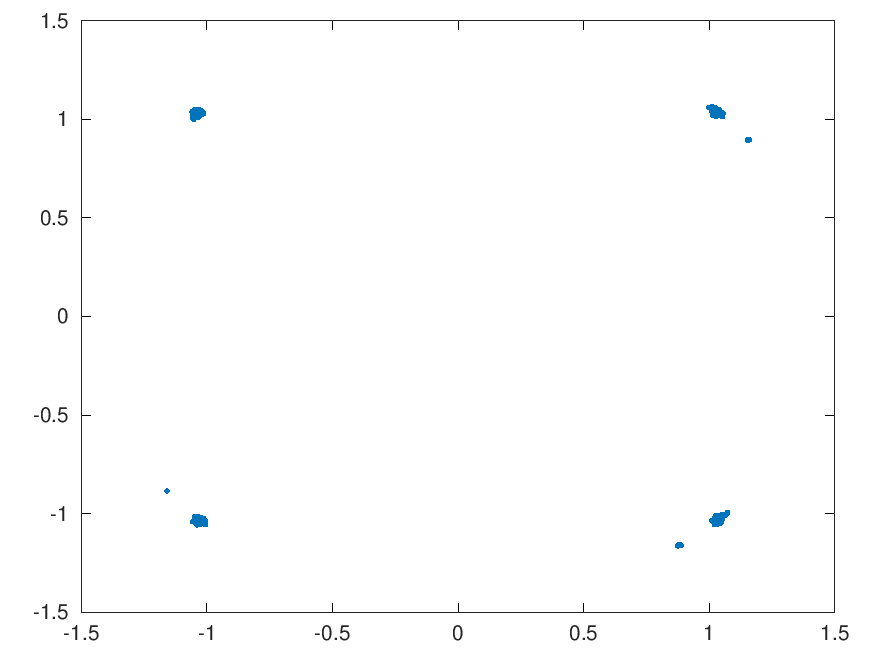
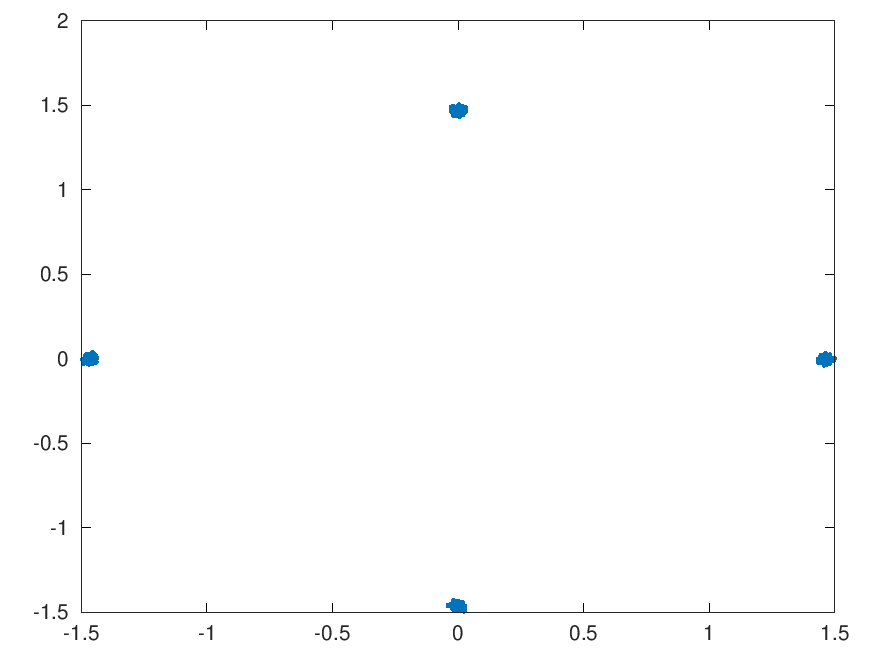
Prepare for new algorithms

diff --git a/qpsk.c b/qpsk.c
@@ -20,11 +20,11 @@
 
 // Prototypes
 
-static void qpsk_demod(complex float, int []);
+static void qpsk_demod(complex double, int []);
 static void rx_frame(int16_t [], int []);
-static complex float qpsk_mod(int []);
-static int tx_frame(int16_t [], complex float [], int);
-static complex float qpsk_mod(int []);
+static complex double qpsk_mod(int []);
+static int tx_frame(int16_t [], complex double [], int);
+static complex double qpsk_mod(int []);
 static int qpsk_packet_mod(int16_t [], int [], int);
 
 // Globals
@@ -32,32 +32,32 @@ static int qpsk_packet_mod(int16_t [], int [], int);
 FILE *fin;
 FILE *fout;
 
-complex float tx_filter[NTAPS];
-complex float rx_filter[NTAPS];
+complex double tx_filter[NTAPS];
+complex double rx_filter[NTAPS];
 
-complex float input_frame[FRAME_SIZE];
-complex float decimated_frame[FRAME_SIZE / 2];
+complex double input_frame[FRAME_SIZE];
+complex double decimated_frame[FRAME_SIZE / 2];
 
 // Two phase for full duplex
 
-complex float fbb_tx_phase;
-complex float fbb_tx_rect;
+complex double fbb_tx_phase;
+complex double fbb_tx_rect;
 
-complex float fbb_rx_phase;
-complex float fbb_rx_rect;
+complex double fbb_rx_phase;
+complex double fbb_rx_rect;
 
-float fbb_offset_freq;
+double fbb_offset_freq;
 
-float d_error;
+double d_error;
 
 /*
  * QPSK Quadrant bit-pair values - Gray Coded
  */
-const complex float constellation[] = {
-    1.0f + 0.0f * I, //  I
-    0.0f + 1.0f * I, //  Q
-    0.0f - 1.0f * I, // -Q
-    -1.0f + 0.0f * I // -I
+const complex double constellation[] = {
+    1.0 + 0.0 * I, //  I
+    0.0 + 1.0 * I, //  Q
+    0.0 - 1.0 * I, // -Q
+    -1.0 + 0.0 * I // -I
 };
 
 /*
@@ -69,16 +69,11 @@ const complex float constellation[] = {
  * 
  * Each bit pair differs from the next by only one bit.
  */
-static void qpsk_demod(complex float symbol, int bits[]) {
-    /*
-     * Don't rotate when costas loop enabled
-     */
-    if (get_costas_enable() == false) {
-        symbol *= cmplx(ROTATE45);
-    }
+static void qpsk_demod(complex double symbol, int bits[]) {
+    symbol *= cmplx(ROTATE45);
 
-    bits[0] = crealf(symbol) < 0.0f; // I < 0 ?
-    bits[1] = cimagf(symbol) < 0.0f; // Q < 0 ?
+    bits[0] = creal(symbol) < 0.0; // I < 0 ?
+    bits[1] = cimag(symbol) < 0.0; // Q < 0 ?
 }
 
 /*
@@ -89,11 +84,11 @@ static void qpsk_demod(complex float symbol, int bits[]) {
  * Remove any frequency and timing offsets
  */
 static void rx_frame(int16_t in[], int bits[]) {
-    float max_i = 0.0f;
-    float max_q = 0.0f;
+    double max_i = 0.0;
+    double max_q = 0.0;
 
-    float av_i = 0.0f;;
-    float av_q = 0.0f;
+    double av_i = 0.0;;
+    double av_q = 0.0;
 
     /*
      * You need as many histograms as you think
@@ -115,10 +110,10 @@ static void rx_frame(int16_t in[], int bits[]) {
     for (int i = 0; i < FRAME_SIZE; i++) {
         fbb_rx_phase *= fbb_rx_rect;
 
-        input_frame[i] = fbb_rx_phase * ((float) in[i] / 16384.0f);
+        input_frame[i] = fbb_rx_phase * ((double) in[i] / 16384.0f);
     }
 
-    fbb_rx_phase /= cabsf(fbb_rx_phase); // normalize as magnitude can drift
+    fbb_rx_phase /= cabs(fbb_rx_phase); // normalize as magnitude can drift
 
     /*
      * Raised Root Cosine Filter
@@ -131,8 +126,8 @@ static void rx_frame(int16_t in[], int bits[]) {
      */
     for (int i = 0; i < FRAME_SIZE; i += CYCLES) {
         for (int j = 0; j < CYCLES; j++) {
-            av_i += fabsf(crealf(input_frame[i+j]));
-            av_q += fabsf(cimagf(input_frame[i+j]));
+            av_i += fabs(creal(input_frame[i+j]));
+            av_q += fabs(cimag(input_frame[i+j]));
         }
         
         av_i /= CYCLES;
@@ -149,8 +144,8 @@ static void rx_frame(int16_t in[], int bits[]) {
         /*
          * Create I/Q amplitude histograms
          */
-        float hv_i = (max_i / 8.0f);
-        float hv_q = (max_q / 8.0f);
+        float hv_i = (max_i / 8.0);
+        float hv_q = (max_q / 8.0);
     
         for (int k = 1; k < 8; k++) {
             if (av_i <= (hv_i * k)) {
@@ -193,7 +188,7 @@ static void rx_frame(int16_t in[], int bits[]) {
 
     for (int i = 0, j = 0; i < (FRAME_SIZE / CYCLES); i++, j += 2) {
 #ifdef TEST_SCATTER
-        fprintf(stderr, "%f %f\n", crealf(decimated_frame[i]), cimagf(decimated_frame[i]));
+        fprintf(stderr, "%f %f\n", creal(decimated_frame[i]), cimag(decimated_frame[i]));
 #endif
         qpsk_demod(decimated_frame[i], &bits[j]);
     }
@@ -201,7 +196,7 @@ static void rx_frame(int16_t in[], int bits[]) {
     /*
      * Save the detected frequency error
      */
-    fbb_offset_freq = (get_frequency() * RS / TAU);	// convert radians to freq at symbol rate
+    //fbb_offset_freq = (get_frequency() * RS / TAU);	// convert radians to freq at symbol rate
 }
 
 /*
@@ -209,8 +204,8 @@ static void rx_frame(int16_t in[], int bits[]) {
  * and translating the spectrum to 1500 Hz, where it is filtered
  * using the root raised cosine coefficients.
  */
-static int tx_frame(int16_t samples[], complex float symbol[], int length) {
-    complex float signal[(length * CYCLES)];
+static int tx_frame(int16_t samples[], complex double symbol[], int length) {
+    complex double signal[(length * CYCLES)];
 
     /*
      * Build the 2400 baud packet Frame zero padding
@@ -220,7 +215,7 @@ static int tx_frame(int16_t samples[], complex float symbol[], int length) {
         signal[(i * CYCLES)] = symbol[i];
 
         for (int j = 1; j < CYCLES; j++) {
-            signal[(i * CYCLES) + j] = 0.0f;
+            signal[(i * CYCLES) + j] = 0.0;
         }
     }
 
@@ -244,7 +239,7 @@ static int tx_frame(int16_t samples[], complex float symbol[], int length) {
      * (imaginary part discarded)
      */
     for (int i = 0; i < (length * CYCLES); i++) {
-        samples[i] = (int16_t) (crealf(signal[i]) * 16384.0f); // I at @ .5
+        samples[i] = (int16_t) (creal(signal[i]) * 16384.0); // I at @ .5
     }
 
     return (length * CYCLES);
@@ -253,12 +248,12 @@ static int tx_frame(int16_t samples[], complex float symbol[], int length) {
 /*
  * Gray coded QPSK modulation function
  */
-static complex float qpsk_mod(int bits[]) {
+static complex double qpsk_mod(int bits[]) {
     return constellation[(bits[1] << 1) | bits[0]];
 }
 
 static int qpsk_packet_mod(int16_t samples[], int tx_bits[], int length) {
-    complex float symbol[length];
+    complex double symbol[length];
     int dibit[2];
 
     for (int i = 0, s = 0; i < length; i++, s += 2) {
@@ -284,7 +279,7 @@ int main(int argc, char** argv) {
      * Create an RRC filter using the
      * Sample Rate, baud, and Alpha
      */
-    rrc_make(FS, RS, .35f);
+    rrc_make(FS, RS, .35);
 
     /*
      * create the QPSK data waveform.
@@ -292,7 +287,7 @@ int main(int argc, char** argv) {
      */
     fout = fopen(TX_FILENAME, "wb");
 
-    fbb_tx_phase = cmplx(0.0f);
+    fbb_tx_phase = cmplx(0.0);
     fbb_tx_rect = cmplx(TAU * CENTER / FS);
     fbb_offset_freq = CENTER;
 
@@ -317,7 +312,7 @@ int main(int argc, char** argv) {
      */
     fin = fopen(TX_FILENAME, "rb");
 
-    fbb_rx_phase = cmplx(0.0f);
+    fbb_rx_phase = cmplx(0.0);
     fbb_rx_rect = cmplxconj(TAU * CENTER / FS);
 
     while (1) {

diff --git a/qpsk.h b/qpsk.h
@@ -21,19 +21,12 @@ extern "C"
 
 #define FRAME_SIZE      512
 
-#define OS_48           6                   // oversampling rate
-#define OS_TAPS_48K     48                  // number of OS filter taps at 48 kHz
-#define OS_TAPS_48_8K   (OS_TAPS_48K/OS_48) // number of OS filter taps at 8 kHz
-
 #ifndef M_PI
 #define M_PI            3.14159265358979323846
 #endif
 
 #define TAU             (2.0 * M_PI)
 #define ROTATE45        (M_PI / 4.0)
-
-#define INTERPOLATION   0
-#define DECIMATION      1
 
 /*
  * This method is much faster than using cexp()
